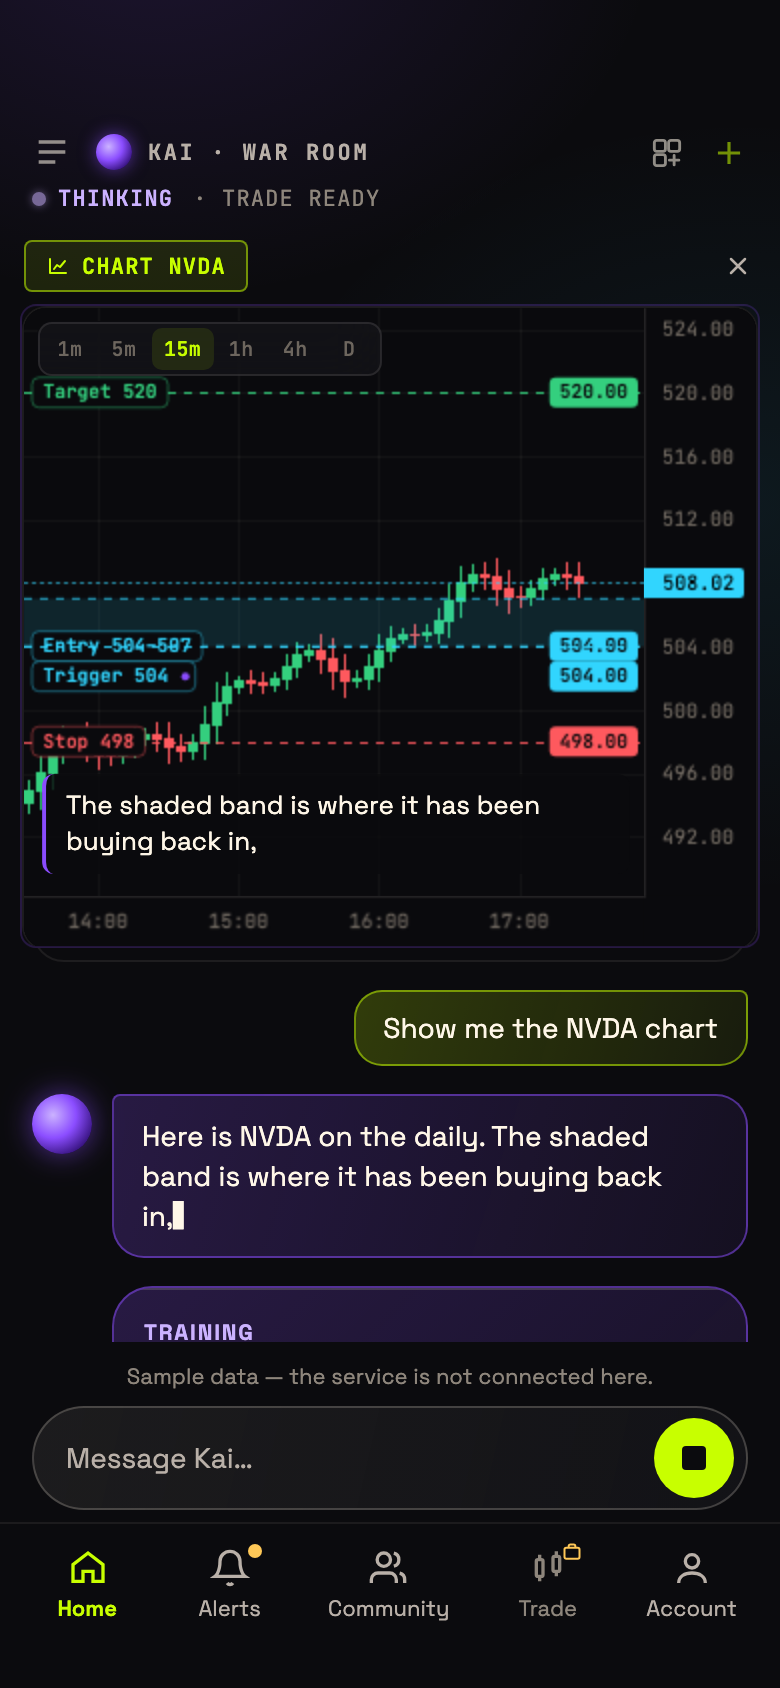
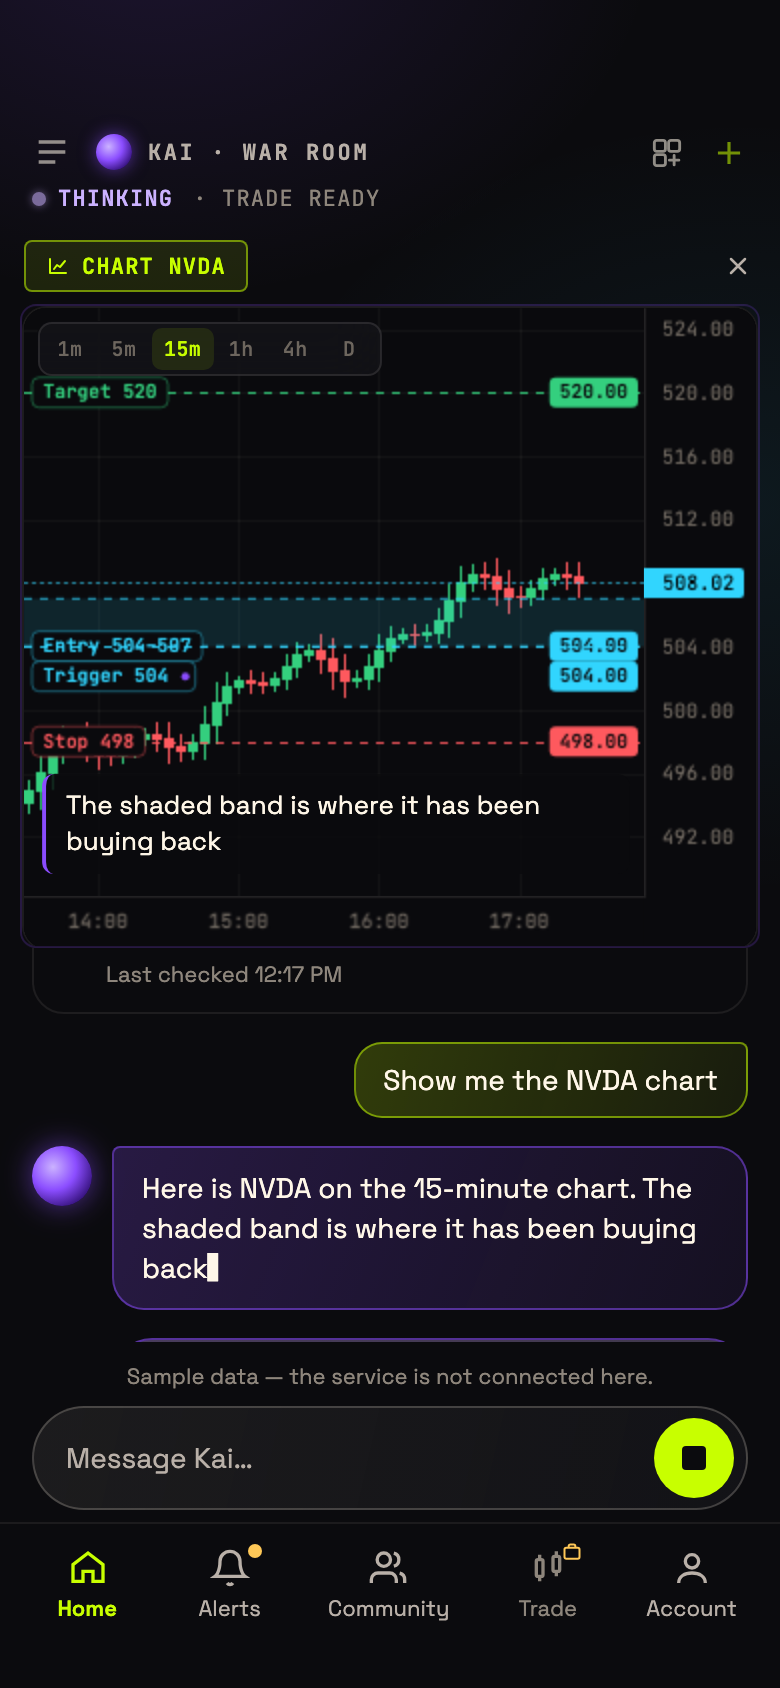
Re-shot war-room proofs, with the mic idle and listening, and fold checks

Changed region(s): [[0.0308, 0.5853, 0.9538, 0.8009], [0.2154, 0.5545, 0.4308, 0.5853], [0.1538, 0.5545, 0.1846, 0.5853]]

diff --git a/docs/HOME-WAR-ROOM-2026-09-21.md b/docs/HOME-WAR-ROOM-2026-09-21.md
@@ -50,7 +50,7 @@ states:
 Volt is the member's colour and violet is Kai's, so "Listening" is volt (the
 member is talking) and "Thinking"/"Speaking" are violet (Kai is).
 
-**At rest.** Under the bar, Kai's brain: about 200 points tall, violet, with
+**At rest.** Under the bar, Kai's brain: about 180 points tall in its frame, violet, with
 its eight region labels. It is a frame with a small "KAI · BRAIN" label and a
 caption line under it that says what Kai is doing. Kai's greeting and the
 stage-based opening card sit under the brain, then the conversation and the
@@ -120,8 +120,9 @@ screen. No network gives the same dim brain with "No connection".
 - Proof shots, from `apps/mobile/scripts/proof-home-warroom.mjs` in fixtures
   mode, are in `docs/home-warroom-proof/`: 390×844 at 100% and 130% text, and
   360×780. They cover a Trade Ready and a Beginner member at rest, Kai writing
-  over a chart, two panels as tabs with "close all", Kai offline, and a panel
-  opened by the member at 360.
+  over a chart, two panels as tabs with "close all", Kai offline, a panel
+  opened by the member at 360, and the mic as the main control, idle and
+  listening.
 - The rules (status, lit regions, captions) are in
   `apps/mobile/src/features/home/warroom.ts` and tested by
   `apps/mobile/scripts/war-room-test.mts`, which runs in `npm test`.
@@ -129,8 +130,32 @@ screen. No network gives the same dim brain with "No connection".
   not yet told which tool Kai calls mid-answer, so a region lights when its
   panel opens rather than the instant the tool runs. When the server starts
   sending tool events, `litRegions` is the one place to feed them in.
-- At 130% text the opening card's button falls below the first screen on a
-  390×844 phone; at 100% it stays above it.
 - Fixtures mode gained `?stage=` (preview a stage) and a canned "chart" turn,
   so the stage-aware brain and the chart caption can be photographed. Neither
   does anything on a real stack.
+
+## Polish pass (orchestrator review, same day)
+
+- The "3/8 LIT" counter is gone; members read it as jargon. The regions still
+  light.
+- The brain adapts. At the design's text size on a tall phone it is a
+  124-point drawing in its frame. At larger text (the member's setting or the
+  phone's, 115% and up) or on a screen shorter than 800 points, it shrinks to
+  80 points with tighter labels, drops the "KAI · BRAIN" label row (the bar
+  above already says KAI · WAR ROOM) and keeps the caption to one line.
+  Measured: the opening card's main button now sits above the message box at
+  390×844 at 100% and 130%, at 360×780, and with the mic showing. The
+  proof script checks this on every run.
+- The mic is the main control when voice is live: a 52-point volt button
+  beside the message box, with a status word under it (TAP TO TALK,
+  LISTENING…, SPEAKING). The message box keeps its Send button and reads
+  "Or type to Kai…". Without voice, nothing changes. The Kai sheet still has
+  the smaller mic beside Send.
+- Fixtures gained `?voice=on`, which draws the mic as if the server had said
+  voice is live. It does nothing against a real API. The listening proof uses
+  Chromium's test tone as the microphone, so the recording, the metering and
+  the ring growing with the level are real, not stubbed.
+- The canned chart reply now says "15-minute chart" and opens the chart on
+  15 minutes, matching what the chart shows.
+- The priority card's cut-off status row ("Approac…", "9:41 AM") is left alone
+  on purpose: that card belongs to the alert-card lane.
